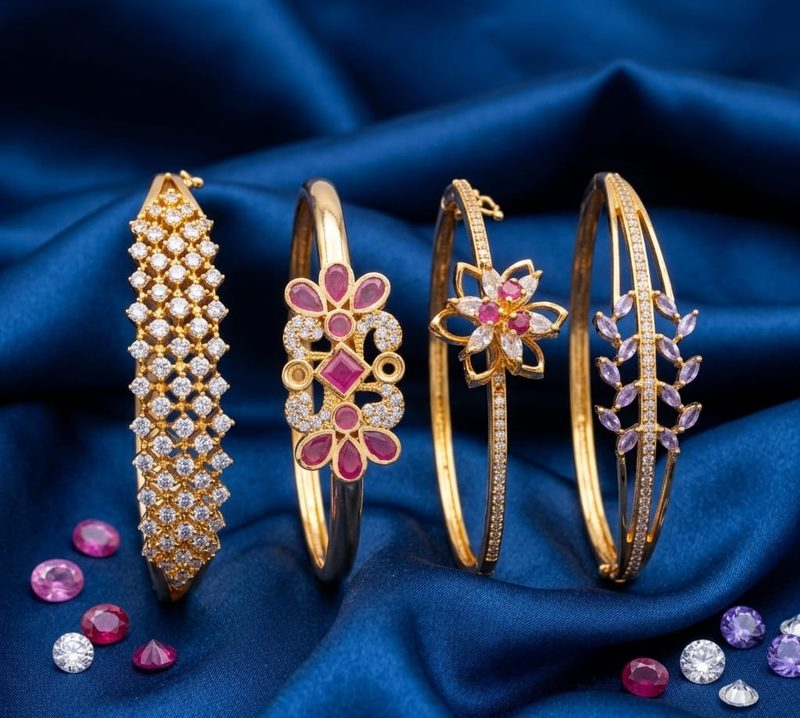
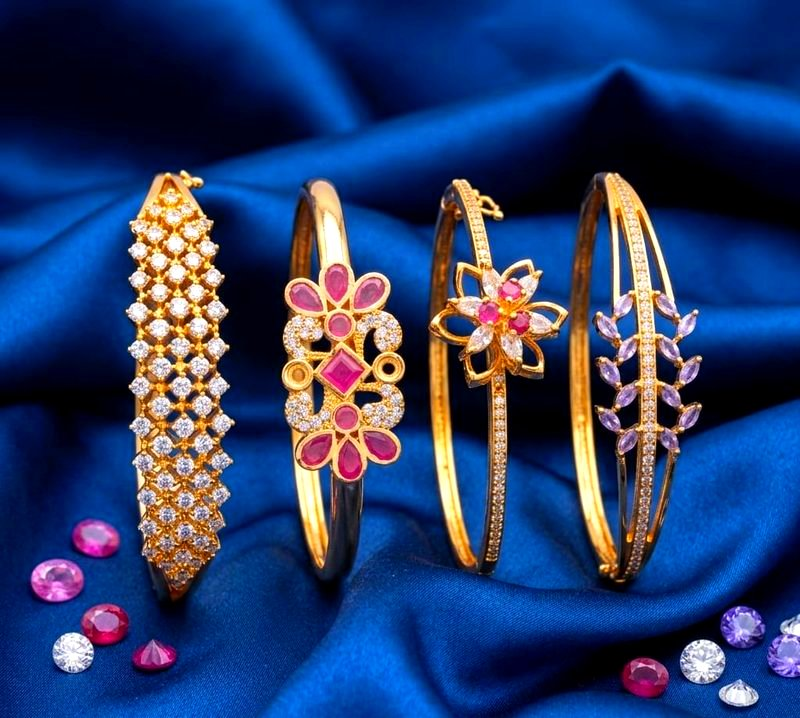
Enhance jewellery image colour vibrance and bust image cache

diff --git a/jewellery.html b/jewellery.html
@@ -137,7 +137,7 @@
       </div>
       <div class="product-card" data-category="chains">
         <div class="product-badge">New</div>
-        <img src="images/jewellery-01.jpg" alt="Jewellery Item 01">
+        <img src="images/jewellery-01.jpg?v=2" alt="Jewellery Item 01">
         <div class="product-info">
           <h3>Jewellery Item 01</h3>
           <p class="product-category">Chains</p>
@@ -147,7 +147,7 @@
       </div>
       <div class="product-card" data-category="chains">
         <div class="product-badge">New</div>
-        <img src="images/jewellery-02.jpg" alt="Jewellery Item 02">
+        <img src="images/jewellery-02.jpg?v=2" alt="Jewellery Item 02">
         <div class="product-info">
           <h3>Jewellery Item 02</h3>
           <p class="product-category">Chains</p>
@@ -157,7 +157,7 @@
       </div>
       <div class="product-card" data-category="chains">
         <div class="product-badge">New</div>
-        <img src="images/jewellery-03.jpg" alt="Jewellery Item 03">
+        <img src="images/jewellery-03.jpg?v=2" alt="Jewellery Item 03">
         <div class="product-info">
           <h3>Jewellery Item 03</h3>
           <p class="product-category">Chains</p>
@@ -167,7 +167,7 @@
       </div>
       <div class="product-card" data-category="chains">
         <div class="product-badge">New</div>
-        <img src="images/jewellery-04.jpg" alt="Jewellery Item 04">
+        <img src="images/jewellery-04.jpg?v=2" alt="Jewellery Item 04">
         <div class="product-info">
           <h3>Jewellery Item 04</h3>
           <p class="product-category">Chains</p>
@@ -177,7 +177,7 @@
       </div>
       <div class="product-card" data-category="chains">
         <div class="product-badge">New</div>
-        <img src="images/jewellery-05.jpg" alt="Jewellery Item 05">
+        <img src="images/jewellery-05.jpg?v=2" alt="Jewellery Item 05">
         <div class="product-info">
           <h3>Jewellery Item 05</h3>
           <p class="product-category">Chains</p>
@@ -187,7 +187,7 @@
       </div>
       <div class="product-card" data-category="chains">
         <div class="product-badge">New</div>
-        <img src="images/jewellery-06.jpg" alt="Jewellery Item 06">
+        <img src="images/jewellery-06.jpg?v=2" alt="Jewellery Item 06">
         <div class="product-info">
           <h3>Jewellery Item 06</h3>
           <p class="product-category">Chains</p>
@@ -197,7 +197,7 @@
       </div>
       <div class="product-card" data-category="chains">
         <div class="product-badge">New</div>
-        <img src="images/jewellery-07.jpg" alt="Jewellery Item 07">
+        <img src="images/jewellery-07.jpg?v=2" alt="Jewellery Item 07">
         <div class="product-info">
           <h3>Jewellery Item 07</h3>
           <p class="product-category">Chains</p>
@@ -207,7 +207,7 @@
       </div>
       <div class="product-card" data-category="chains">
         <div class="product-badge">New</div>
-        <img src="images/jewellery-08.jpg" alt="Jewellery Item 08">
+        <img src="images/jewellery-08.jpg?v=2" alt="Jewellery Item 08">
         <div class="product-info">
           <h3>Jewellery Item 08</h3>
           <p class="product-category">Chains</p>
@@ -217,7 +217,7 @@
       </div>
       <div class="product-card" data-category="chains">
         <div class="product-badge">New</div>
-        <img src="images/jewellery-09.jpg" alt="Jewellery Item 09">
+        <img src="images/jewellery-09.jpg?v=2" alt="Jewellery Item 09">
         <div class="product-info">
           <h3>Jewellery Item 09</h3>
           <p class="product-category">Chains</p>
@@ -227,7 +227,7 @@
       </div>
       <div class="product-card" data-category="chains">
         <div class="product-badge">New</div>
-        <img src="images/jewellery-10.jpg" alt="Jewellery Item 10">
+        <img src="images/jewellery-10.jpg?v=2" alt="Jewellery Item 10">
         <div class="product-info">
           <h3>Jewellery Item 10</h3>
           <p class="product-category">Chains</p>
@@ -237,7 +237,7 @@
       </div>
       <div class="product-card" data-category="chains">
         <div class="product-badge">New</div>
-        <img src="images/jewellery-11.jpg" alt="Jewellery Item 11">
+        <img src="images/jewellery-11.jpg?v=2" alt="Jewellery Item 11">
         <div class="product-info">
           <h3>Jewellery Item 11</h3>
           <p class="product-category">Chains</p>
@@ -247,7 +247,7 @@
       </div>
       <div class="product-card" data-category="chains">
         <div class="product-badge">New</div>
-        <img src="images/jewellery-12.jpg" alt="Jewellery Item 12">
+        <img src="images/jewellery-12.jpg?v=2" alt="Jewellery Item 12">
         <div class="product-info">
           <h3>Jewellery Item 12</h3>
           <p class="product-category">Chains</p>
@@ -257,7 +257,7 @@
       </div>
       <div class="product-card" data-category="chains">
         <div class="product-badge">New</div>
-        <img src="images/jewellery-13.jpg" alt="Jewellery Item 13">
+        <img src="images/jewellery-13.jpg?v=2" alt="Jewellery Item 13">
         <div class="product-info">
           <h3>Jewellery Item 13</h3>
           <p class="product-category">Chains</p>
@@ -267,7 +267,7 @@
       </div>
       <div class="product-card" data-category="chains">
         <div class="product-badge">New</div>
-        <img src="images/jewellery-14.jpg" alt="Jewellery Item 14">
+        <img src="images/jewellery-14.jpg?v=2" alt="Jewellery Item 14">
         <div class="product-info">
           <h3>Jewellery Item 14</h3>
           <p class="product-category">Chains</p>
@@ -277,7 +277,7 @@
       </div>
       <div class="product-card" data-category="chains">
         <div class="product-badge">New</div>
-        <img src="images/jewellery-15.jpg" alt="Jewellery Item 15">
+        <img src="images/jewellery-15.jpg?v=2" alt="Jewellery Item 15">
         <div class="product-info">
           <h3>Jewellery Item 15</h3>
           <p class="product-category">Chains</p>
@@ -287,7 +287,7 @@
       </div>
       <div class="product-card" data-category="chains">
         <div class="product-badge">New</div>
-        <img src="images/jewellery-16.jpg" alt="Jewellery Item 16">
+        <img src="images/jewellery-16.jpg?v=2" alt="Jewellery Item 16">
         <div class="product-info">
           <h3>Jewellery Item 16</h3>
           <p class="product-category">Chains</p>
@@ -297,7 +297,7 @@
       </div>
       <div class="product-card" data-category="chains">
         <div class="product-badge">New</div>
-        <img src="images/jewellery-17.jpg" alt="Jewellery Item 17">
+        <img src="images/jewellery-17.jpg?v=2" alt="Jewellery Item 17">
         <div class="product-info">
           <h3>Jewellery Item 17</h3>
           <p class="product-category">Chains</p>
@@ -307,7 +307,7 @@
       </div>
       <div class="product-card" data-category="chains">
         <div class="product-badge">New</div>
-        <img src="images/jewellery-18.jpg" alt="Jewellery Item 18">
+        <img src="images/jewellery-18.jpg?v=2" alt="Jewellery Item 18">
         <div class="product-info">
           <h3>Jewellery Item 18</h3>
           <p class="product-category">Chains</p>
@@ -317,7 +317,7 @@
       </div>
       <div class="product-card" data-category="chains">
         <div class="product-badge">New</div>
-        <img src="images/jewellery-19.jpg" alt="Jewellery Item 19">
+        <img src="images/jewellery-19.jpg?v=2" alt="Jewellery Item 19">
         <div class="product-info">
           <h3>Jewellery Item 19</h3>
           <p class="product-category">Chains</p>
@@ -327,7 +327,7 @@
       </div>
       <div class="product-card" data-category="chains">
         <div class="product-badge">New</div>
-        <img src="images/jewellery-20.jpg" alt="Jewellery Item 20">
+        <img src="images/jewellery-20.jpg?v=2" alt="Jewellery Item 20">
         <div class="product-info">
           <h3>Jewellery Item 20</h3>
           <p class="product-category">Chains</p>
@@ -337,7 +337,7 @@
       </div>
       <div class="product-card" data-category="chains">
         <div class="product-badge">New</div>
-        <img src="images/jewellery-21.jpg" alt="Jewellery Item 21">
+        <img src="images/jewellery-21.jpg?v=2" alt="Jewellery Item 21">
         <div class="product-info">
           <h3>Jewellery Item 21</h3>
           <p class="product-category">Chains</p>
@@ -347,7 +347,7 @@
       </div>
       <div class="product-card" data-category="chains">
         <div class="product-badge">New</div>
-        <img src="images/jewellery-22.jpg" alt="Jewellery Item 22">
+        <img src="images/jewellery-22.jpg?v=2" alt="Jewellery Item 22">
         <div class="product-info">
           <h3>Jewellery Item 22</h3>
           <p class="product-category">Chains</p>
@@ -357,7 +357,7 @@
       </div>
       <div class="product-card" data-category="chains">
         <div class="product-badge">New</div>
-        <img src="images/jewellery-23.jpg" alt="Jewellery Item 23">
+        <img src="images/jewellery-23.jpg?v=2" alt="Jewellery Item 23">
         <div class="product-info">
           <h3>Jewellery Item 23</h3>
           <p class="product-category">Chains</p>
@@ -367,7 +367,7 @@
       </div>
       <div class="product-card" data-category="chains">
         <div class="product-badge">New</div>
-        <img src="images/jewellery-24.jpg" alt="Jewellery Item 24">
+        <img src="images/jewellery-24.jpg?v=2" alt="Jewellery Item 24">
         <div class="product-info">
           <h3>Jewellery Item 24</h3>
           <p class="product-category">Chains</p>
